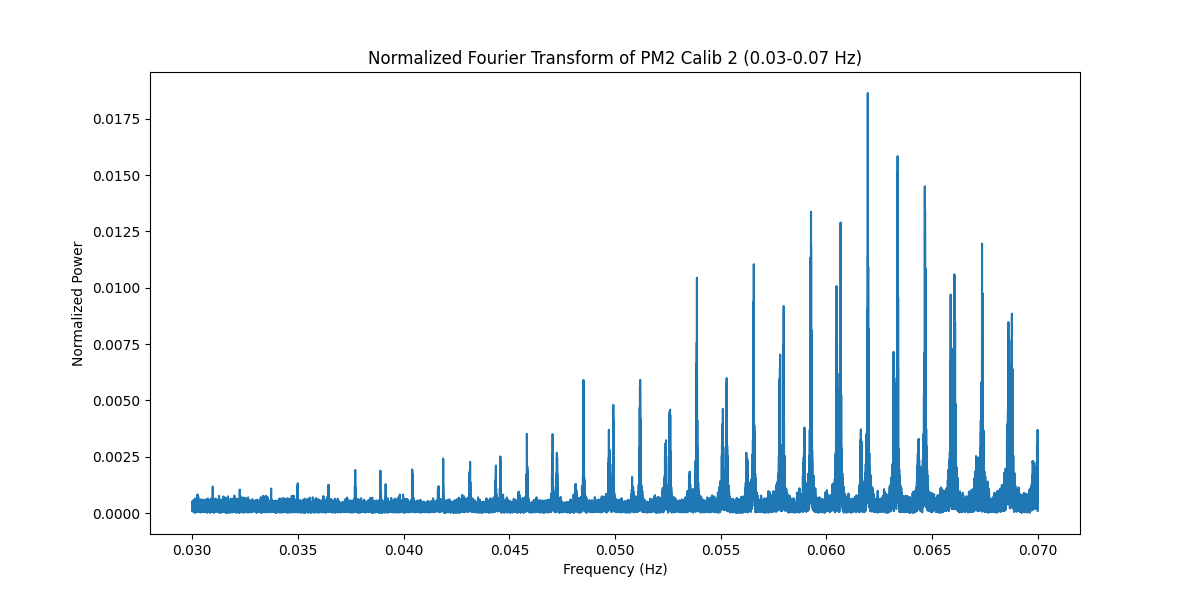
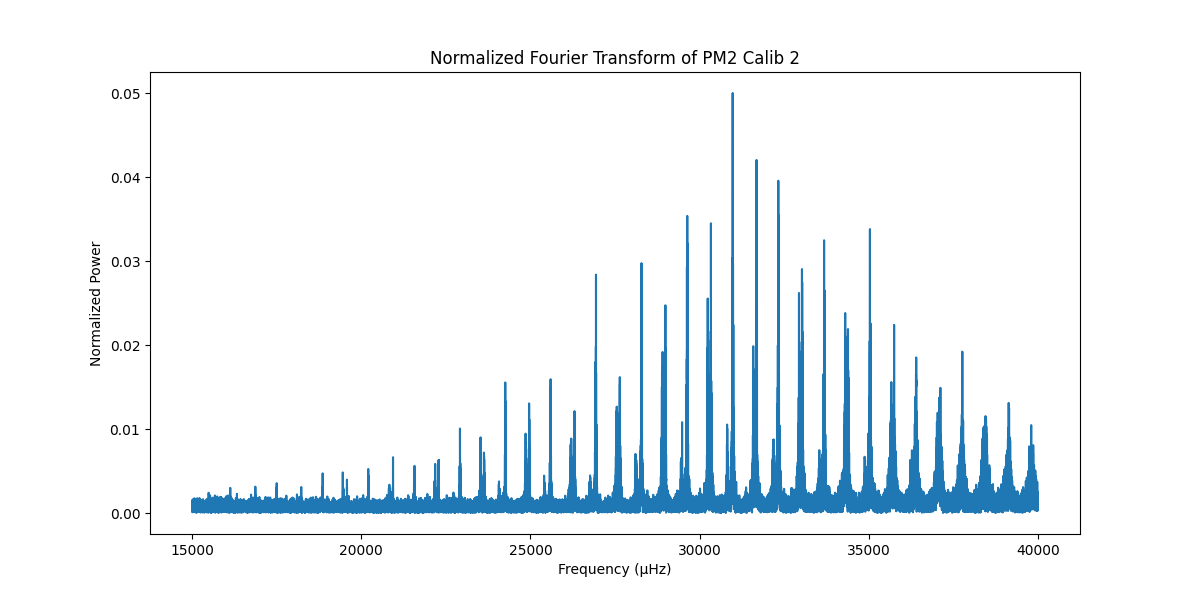
chore: adjusting eigenfrequencies to the peaks

diff --git a/fourier_analysis.py b/fourier_analysis.py
@@ -25,7 +25,7 @@ fft_2_2 = fft.fft(time_series_2_2)
 
 # Frequency array
 N = len(time_series_1_1)
-f = np.fft.fftfreq(N)
+f = np.fft.fftfreq(N/2)
 
 
 #Only plotting the positive frequencies
